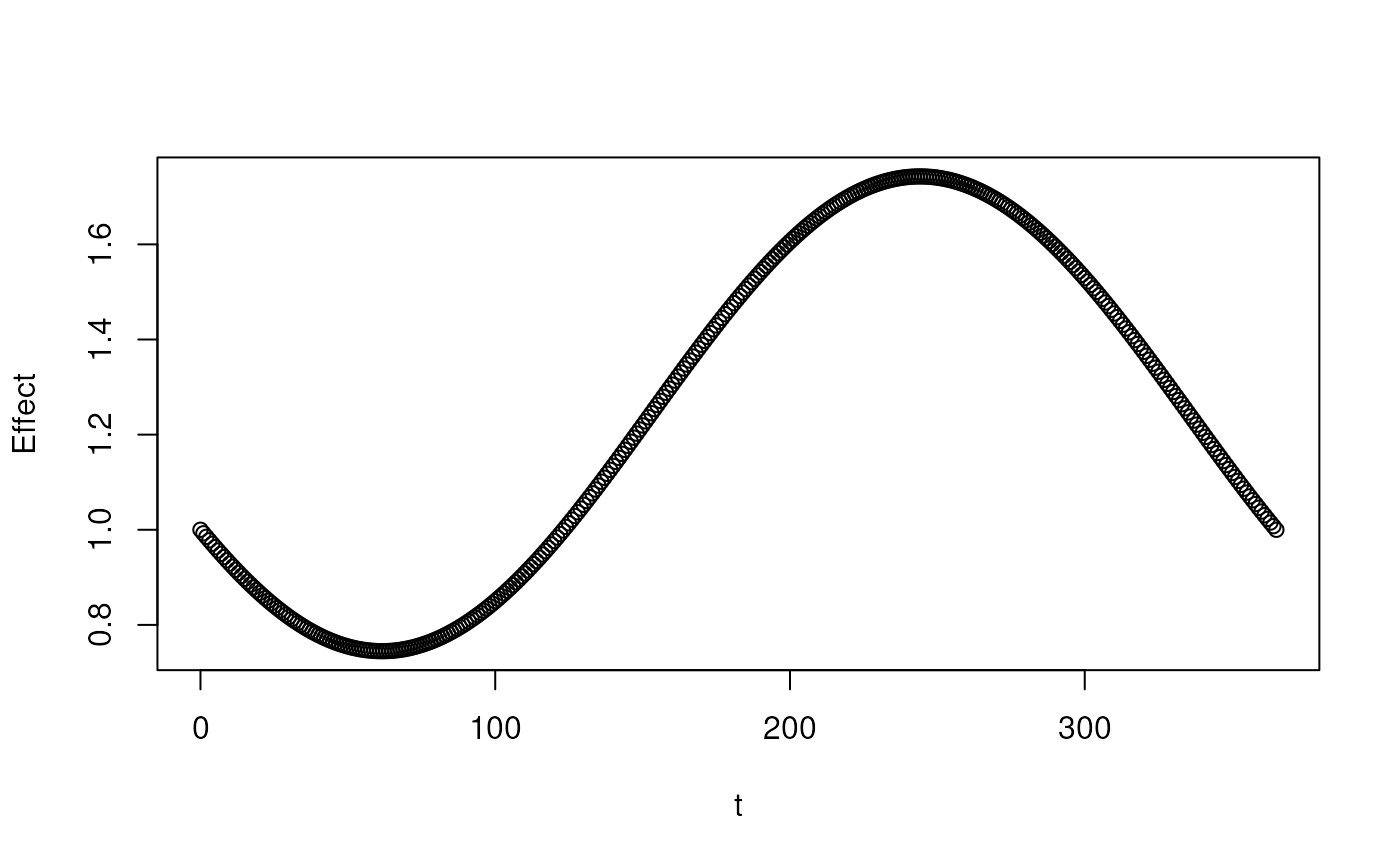
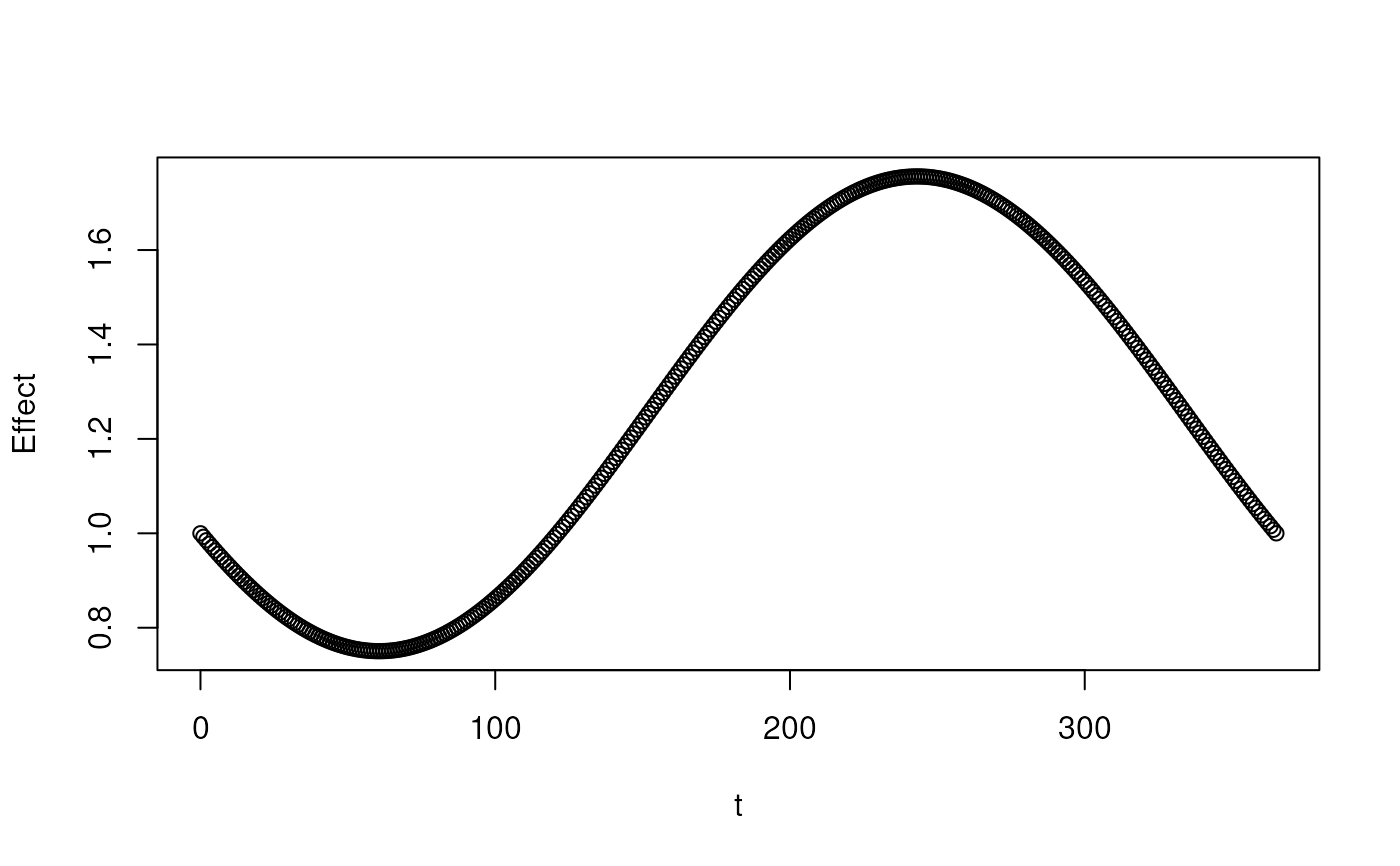
Deploying to gh-pages from @ ssi-dk/diseasy@d07aaa9217be7db4b6ef8a703eb769cba4e362d7 🚀

diff --git a/articles/SEIR-initialisation.html b/articles/SEIR-initialisation.html
@@ -382,16 +382,16 @@ a reduced probability of testing during weekends.</li>
 <span><span class="co">#&gt; <span style="color: #949494;"># A tibble: 1,500 × 6</span></span></span>
 <span><span class="co">#&gt;    date       age_group variant n_infected n_positive_simple n_positive</span></span>
 <span><span class="co">#&gt;    <span style="color: #949494; font-style: italic;">&lt;date&gt;</span>     <span style="color: #949494; font-style: italic;">&lt;chr&gt;</span>     <span style="color: #949494; font-style: italic;">&lt;chr&gt;</span>        <span style="color: #949494; font-style: italic;">&lt;dbl&gt;</span>             <span style="color: #949494; font-style: italic;">&lt;dbl&gt;</span>      <span style="color: #949494; font-style: italic;">&lt;dbl&gt;</span></span></span>
-<span><span class="co">#&gt; <span style="color: #BCBCBC;"> 1</span> 2020-01-03 30-59     WT            64.2                37         41</span></span>
-<span><span class="co">#&gt; <span style="color: #BCBCBC;"> 2</span> 2020-01-04 30-59     WT           136.                 85         64</span></span>
-<span><span class="co">#&gt; <span style="color: #BCBCBC;"> 3</span> 2020-01-05 30-59     WT           179.                107         79</span></span>
-<span><span class="co">#&gt; <span style="color: #BCBCBC;"> 4</span> 2020-01-06 30-59     WT           203.                136        138</span></span>
-<span><span class="co">#&gt; <span style="color: #BCBCBC;"> 5</span> 2020-01-07 30-59     WT           221.                137        144</span></span>
-<span><span class="co">#&gt; <span style="color: #BCBCBC;"> 6</span> 2020-01-08 30-59     WT           239.                159        169</span></span>
-<span><span class="co">#&gt; <span style="color: #BCBCBC;"> 7</span> 2020-01-09 30-59     WT           257.                170        181</span></span>
-<span><span class="co">#&gt; <span style="color: #BCBCBC;"> 8</span> 2020-01-10 30-59     WT           278.                188        196</span></span>
-<span><span class="co">#&gt; <span style="color: #BCBCBC;"> 9</span> 2020-01-11 30-59     WT           301.                203        159</span></span>
-<span><span class="co">#&gt; <span style="color: #BCBCBC;">10</span> 2020-01-12 30-59     WT           325.                198        142</span></span>
+<span><span class="co">#&gt; <span style="color: #BCBCBC;"> 1</span> 2020-01-03 60+       WT            17.2                 7          7</span></span>
+<span><span class="co">#&gt; <span style="color: #BCBCBC;"> 2</span> 2020-01-04 60+       WT            36.8                26         23</span></span>
+<span><span class="co">#&gt; <span style="color: #BCBCBC;"> 3</span> 2020-01-05 60+       WT            49.1                26         19</span></span>
+<span><span class="co">#&gt; <span style="color: #BCBCBC;"> 4</span> 2020-01-06 60+       WT            57.4                34         39</span></span>
+<span><span class="co">#&gt; <span style="color: #BCBCBC;"> 5</span> 2020-01-07 60+       WT            64.4                47         47</span></span>
+<span><span class="co">#&gt; <span style="color: #BCBCBC;"> 6</span> 2020-01-08 60+       WT            71.6                44         47</span></span>
+<span><span class="co">#&gt; <span style="color: #BCBCBC;"> 7</span> 2020-01-09 60+       WT            79.2                55         59</span></span>
+<span><span class="co">#&gt; <span style="color: #BCBCBC;"> 8</span> 2020-01-10 60+       WT            87.3                61         64</span></span>
+<span><span class="co">#&gt; <span style="color: #BCBCBC;"> 9</span> 2020-01-11 60+       WT            96.0                59         47</span></span>
+<span><span class="co">#&gt; <span style="color: #BCBCBC;">10</span> 2020-01-12 60+       WT           105.                 83         67</span></span>
 <span><span class="co">#&gt; <span style="color: #949494;"># ℹ 1,490 more rows</span></span></span></code></pre></div>
 <div class="sourceCode" id="cb5"><pre class="downlit sourceCode r">
 <code class="sourceCode R"><span><span class="co"># Visualise the example data</span></span>

diff --git a/articles/creating-ensembles.html b/articles/creating-ensembles.html
@@ -188,7 +188,7 @@ instances which we give the class <code>DiseasyEnsemble</code>.</p>
 functions to get a quick overview of the ensemble.</p>
 <div class="sourceCode" id="cb3"><pre class="downlit sourceCode r">
 <code class="sourceCode R"><span><span class="fu"><a href="../reference/print.html">print</a></span><span class="op">(</span><span class="va">ensemble</span><span class="op">)</span></span>
-<span><span class="co">#&gt; DiseasyEnsemble: DiseasyModelG1 (hash: 123cb), DiseasyModelG1 (hash: 4a368), DiseasyModelG1 (hash: 961b9)</span></span></code></pre></div>
+<span><span class="co">#&gt; DiseasyEnsemble: DiseasyModelG1 (hash: ca12c), DiseasyModelG1 (hash: 594fd), DiseasyModelG1 (hash: 89152)</span></span></code></pre></div>
 <div class="sourceCode" id="cb4"><pre class="downlit sourceCode r">
 <code class="sourceCode R"><span><span class="fu"><a href="https://rdrr.io/r/base/summary.html" class="external-link">summary</a></span><span class="op">(</span><span class="va">ensemble</span><span class="op">)</span></span>
 <span><span class="co">#&gt; DiseasyEnsemble consisting of:</span></span>
@@ -207,12 +207,12 @@ least specify the following:</p>
 <span><span class="co">#&gt; <span style="color: #949494;"># A tibble: 6 × 5</span></span></span>
 <span><span class="co">#&gt;   date       n_positive realisation_id weight model                           </span></span>
 <span><span class="co">#&gt;   <span style="color: #949494; font-style: italic;">&lt;date&gt;</span>          <span style="color: #949494; font-style: italic;">&lt;dbl&gt;</span> <span style="color: #949494; font-style: italic;">&lt;chr&gt;</span>           <span style="color: #949494; font-style: italic;">&lt;dbl&gt;</span> <span style="color: #949494; font-style: italic;">&lt;chr&gt;</span>                           </span></span>
-<span><span class="co">#&gt; <span style="color: #BCBCBC;">1</span> 2021-03-28      <span style="text-decoration: underline;">2</span>132. 1                   1 123cbb34d81d64723307a36842ca2dba</span></span>
-<span><span class="co">#&gt; <span style="color: #BCBCBC;">2</span> 2021-03-29      <span style="text-decoration: underline;">1</span>719. 1                   1 123cbb34d81d64723307a36842ca2dba</span></span>
-<span><span class="co">#&gt; <span style="color: #BCBCBC;">3</span> 2021-03-30      <span style="text-decoration: underline;">2</span>432. 1                   1 123cbb34d81d64723307a36842ca2dba</span></span>
-<span><span class="co">#&gt; <span style="color: #BCBCBC;">4</span> 2021-03-31      <span style="text-decoration: underline;">2</span>555. 1                   1 123cbb34d81d64723307a36842ca2dba</span></span>
-<span><span class="co">#&gt; <span style="color: #BCBCBC;">5</span> 2021-04-01      <span style="text-decoration: underline;">2</span>163. 1                   1 123cbb34d81d64723307a36842ca2dba</span></span>
-<span><span class="co">#&gt; <span style="color: #BCBCBC;">6</span> 2021-04-02      <span style="text-decoration: underline;">1</span>253. 1                   1 123cbb34d81d64723307a36842ca2dba</span></span></code></pre></div>
+<span><span class="co">#&gt; <span style="color: #BCBCBC;">1</span> 2021-03-28      <span style="text-decoration: underline;">2</span>132. 1                   1 ca12ca79d7ec9eec7b39838bcc8b2b45</span></span>
+<span><span class="co">#&gt; <span style="color: #BCBCBC;">2</span> 2021-03-29      <span style="text-decoration: underline;">1</span>719. 1                   1 ca12ca79d7ec9eec7b39838bcc8b2b45</span></span>
+<span><span class="co">#&gt; <span style="color: #BCBCBC;">3</span> 2021-03-30      <span style="text-decoration: underline;">2</span>432. 1                   1 ca12ca79d7ec9eec7b39838bcc8b2b45</span></span>
+<span><span class="co">#&gt; <span style="color: #BCBCBC;">4</span> 2021-03-31      <span style="text-decoration: underline;">2</span>555. 1                   1 ca12ca79d7ec9eec7b39838bcc8b2b45</span></span>
+<span><span class="co">#&gt; <span style="color: #BCBCBC;">5</span> 2021-04-01      <span style="text-decoration: underline;">2</span>163. 1                   1 ca12ca79d7ec9eec7b39838bcc8b2b45</span></span>
+<span><span class="co">#&gt; <span style="color: #BCBCBC;">6</span> 2021-04-02      <span style="text-decoration: underline;">1</span>253. 1                   1 ca12ca79d7ec9eec7b39838bcc8b2b45</span></span></code></pre></div>
 <div class="sourceCode" id="cb6"><pre class="downlit sourceCode r">
 <code class="sourceCode R"><span><span class="fu"><a href="../reference/plot.html">plot</a></span><span class="op">(</span><span class="va">ensemble</span>, observable <span class="op">=</span> <span class="st">"n_positive"</span>, prediction_length <span class="op">=</span> <span class="fl">30</span><span class="op">)</span></span></code></pre></div>
 <p><img src="creating-ensembles_files/figure-html/unnamed-chunk-7-1.png" class="r-plt" alt="Plot of the ensemble predictions. Shaded area is ensemble quantiles with observations as points." width="700"></p>
@@ -291,7 +291,7 @@ parameter settings from before.</p>
 models:</p>
 <div class="sourceCode" id="cb11"><pre class="downlit sourceCode r">
 <code class="sourceCode R"><span><span class="fu"><a href="../reference/print.html">print</a></span><span class="op">(</span><span class="va">ensemble</span><span class="op">)</span></span>
-<span><span class="co">#&gt; DiseasyEnsemble: DiseasyModelG0 (hash: a98c1), DiseasyModelG0 (hash: 10ea0), DiseasyModelG0 (hash: f749e), DiseasyModelG1 (hash: 123cb), DiseasyModelG1 (hash: 4a368)</span></span></code></pre></div>
+<span><span class="co">#&gt; DiseasyEnsemble: DiseasyModelG0 (hash: 37690), DiseasyModelG0 (hash: 899b9), DiseasyModelG0 (hash: 702fe), DiseasyModelG1 (hash: ca12c), DiseasyModelG1 (hash: 594fd)</span></span></code></pre></div>
 <div class="sourceCode" id="cb12"><pre class="downlit sourceCode r">
 <code class="sourceCode R"><span><span class="fu"><a href="https://rdrr.io/r/base/summary.html" class="external-link">summary</a></span><span class="op">(</span><span class="va">ensemble</span><span class="op">)</span></span>
 <span><span class="co">#&gt; DiseasyEnsemble consisting of:</span></span>

diff --git a/articles/diseasy-immunity.html b/articles/diseasy-immunity.html
@@ -129,7 +129,7 @@ the following code.</p>
 <span><span class="co">#&gt; $infection</span></span>
 <span><span class="co">#&gt; function (t) </span></span>
 <span><span class="co">#&gt; 1</span></span>
-<span><span class="co">#&gt; &lt;environment: 0x562da50355a0&gt;</span></span>
+<span><span class="co">#&gt; &lt;environment: 0x564711f2ac28&gt;</span></span>
 <span><span class="co">#&gt; attr(,"name")</span></span>
 <span><span class="co">#&gt; [1] "no_waning"</span></span></code></pre></div>
 <p>This returns a <code>named list()</code> where the named target are
@@ -165,7 +165,7 @@ parameter.</li>
 <span><span class="co">#&gt; $infection</span></span>
 <span><span class="co">#&gt; function (t) </span></span>
 <span><span class="co">#&gt; exp(-(t - time_scale)/shape)/(1 + exp(-(t - time_scale)/shape))</span></span>
-<span><span class="co">#&gt; &lt;environment: 0x562da6748240&gt;</span></span>
+<span><span class="co">#&gt; &lt;environment: 0x56471363da98&gt;</span></span>
 <span><span class="co">#&gt; attr(,"name")</span></span>
 <span><span class="co">#&gt; [1] "sigmoidal_waning"</span></span>
 <span><span class="co">#&gt; attr(,"dots")</span></span>
@@ -210,7 +210,7 @@ identification. Default is “custom_waning”.</li>
 <span><span class="co">#&gt; $hospitalisation</span></span>
 <span><span class="co">#&gt; function (t) </span></span>
 <span><span class="co">#&gt; 0.8 * exp(-(t/time_scale)^2) + 0.2</span></span>
-<span><span class="co">#&gt; &lt;environment: 0x562da750b6a0&gt;</span></span>
+<span><span class="co">#&gt; &lt;environment: 0x5647143ff5d8&gt;</span></span>
 <span><span class="co">#&gt; attr(,"name")</span></span>
 <span><span class="co">#&gt; [1] "gaussian_waning"</span></span>
 <span><span class="co">#&gt; attr(,"dots")</span></span>
@@ -248,8 +248,8 @@ additional arguments.</p>
 <span><span class="co">#&gt; $infection</span></span>
 <span><span class="co">#&gt; function (t) </span></span>
 <span><span class="co">#&gt; exp(-(t - time_scale)/shape)/(1 + exp(-(t - time_scale)/shape))</span></span>
-<span><span class="co">#&gt; &lt;bytecode: 0x562da890a5f0&gt;</span></span>
-<span><span class="co">#&gt; &lt;environment: 0x562da840f7c0&gt;</span></span>
+<span><span class="co">#&gt; &lt;bytecode: 0x5647157fdfd8&gt;</span></span>
+<span><span class="co">#&gt; &lt;environment: 0x5647153032a8&gt;</span></span>
 <span><span class="co">#&gt; attr(,"name")</span></span>
 <span><span class="co">#&gt; [1] "sigmoidal_waning"</span></span>
 <span><span class="co">#&gt; attr(,"dots")</span></span>
@@ -267,7 +267,7 @@ additional arguments.</p>
 <span><span class="co">#&gt; $hospitalisation</span></span>
 <span><span class="co">#&gt; function (t) </span></span>
 <span><span class="co">#&gt; 0.8 * exp(-(t/time_scale)^2) + 0.2</span></span>
-<span><span class="co">#&gt; &lt;environment: 0x562da90aac98&gt;</span></span>
+<span><span class="co">#&gt; &lt;environment: 0x564715f9e680&gt;</span></span>
 <span><span class="co">#&gt; attr(,"name")</span></span>
 <span><span class="co">#&gt; [1] "gaussian_waning"</span></span>
 <span><span class="co">#&gt; attr(,"dots")</span></span>
@@ -291,7 +291,7 @@ targets in the current models.</p>
 <span><span class="co">#&gt; $infection</span></span>
 <span><span class="co">#&gt; function (t) </span></span>
 <span><span class="co">#&gt; exp(-(t - time_scale)/shape)/(1 + exp(-(t - time_scale)/shape))</span></span>
-<span><span class="co">#&gt; &lt;environment: 0x562da840f7c0&gt;</span></span>
+<span><span class="co">#&gt; &lt;environment: 0x5647153032a8&gt;</span></span>
 <span><span class="co">#&gt; attr(,"name")</span></span>
 <span><span class="co">#&gt; [1] "sigmoidal_waning"</span></span>
 <span><span class="co">#&gt; attr(,"dots")</span></span>
@@ -302,7 +302,7 @@ targets in the current models.</p>
 <span><span class="co">#&gt; $hospitalisation</span></span>
 <span><span class="co">#&gt; function (t) </span></span>
 <span><span class="co">#&gt; 0.8 * exp(-(t/time_scale)^2) + 0.2</span></span>
-<span><span class="co">#&gt; &lt;environment: 0x562da90aac98&gt;</span></span>
+<span><span class="co">#&gt; &lt;environment: 0x564715f9e680&gt;</span></span>
 <span><span class="co">#&gt; attr(,"name")</span></span>
 <span><span class="co">#&gt; [1] "gaussian_waning"</span></span>
 <span><span class="co">#&gt; attr(,"dots")</span></span>

diff --git a/articles/SEIR-implementation.html b/articles/SEIR-implementation.html
@@ -857,11 +857,11 @@ demographic groups and one variant.</p>
 <span>  check <span class="op">=</span> <span class="st">"equal"</span>, times <span class="op">=</span> <span class="fl">1000L</span></span>
 <span><span class="op">)</span></span>
 <span><span class="co">#&gt; Unit: microseconds</span></span>
-<span><span class="co">#&gt;                expr    min     lq      mean median     uq      max neval</span></span>
-<span><span class="co">#&gt;      purrr::map_dbl 21.632 22.524 23.759254 22.954 23.675  151.825  1000</span></span>
-<span><span class="co">#&gt;              sapply 11.577 12.178 15.174001 12.448 12.779 2446.231  1000</span></span>
-<span><span class="co">#&gt;  sapply - USE.NAMES 11.637 12.168 12.748112 12.448 12.819   45.027  1000</span></span>
-<span><span class="co">#&gt;              vapply  4.567  4.848  5.130033  5.008  5.188   19.319  1000</span></span></code></pre></div>
+<span><span class="co">#&gt;                expr    min      lq      mean median      uq      max neval</span></span>
+<span><span class="co">#&gt;      purrr::map_dbl 21.732 22.7890 24.026672 23.274 23.9860  140.338  1000</span></span>
+<span><span class="co">#&gt;              sapply 11.507 12.1280 15.183044 12.419 12.7990 2442.797  1000</span></span>
+<span><span class="co">#&gt;  sapply - USE.NAMES 11.467 12.1285 12.798657 12.429 12.8495   45.648  1000</span></span>
+<span><span class="co">#&gt;              vapply  4.527  4.8175  5.141032  4.967  5.1980   41.542  1000</span></span></code></pre></div>
 <p>Note, that the best performing function in this case is
 <code><a href="https://rdrr.io/r/base/lapply.html" class="external-link">vapply()</a></code>.</p>
 </div>

diff --git a/reference/DiseasyImmunity.html b/reference/DiseasyImmunity.html
@@ -524,7 +524,7 @@ Number of compartments to be used in the model.</p></dd>
 <span class="r-out co"><span class="r-pr">#&gt;</span> $infection</span>
 <span class="r-out co"><span class="r-pr">#&gt;</span> function (t) </span>
 <span class="r-out co"><span class="r-pr">#&gt;</span> exp(-t/time_scale)</span>
-<span class="r-out co"><span class="r-pr">#&gt;</span> &lt;environment: 0x5592ecd2ec00&gt;</span>
+<span class="r-out co"><span class="r-pr">#&gt;</span> &lt;environment: 0x564f9cf5be48&gt;</span>
 <span class="r-out co"><span class="r-pr">#&gt;</span> attr(,"name")</span>
 <span class="r-out co"><span class="r-pr">#&gt;</span> [1] "exponential_waning"</span>
 <span class="r-out co"><span class="r-pr">#&gt;</span> attr(,"dots")</span>
@@ -536,7 +536,7 @@ Number of compartments to be used in the model.</p></dd>
 <span class="r-out co"><span class="r-pr">#&gt;</span> $infection</span>
 <span class="r-out co"><span class="r-pr">#&gt;</span> function (t) </span>
 <span class="r-out co"><span class="r-pr">#&gt;</span> exp(-t/time_scale)</span>
-<span class="r-out co"><span class="r-pr">#&gt;</span> &lt;environment: 0x5592ecd2ec00&gt;</span>
+<span class="r-out co"><span class="r-pr">#&gt;</span> &lt;environment: 0x564f9cf5be48&gt;</span>
 <span class="r-out co"><span class="r-pr">#&gt;</span> attr(,"name")</span>
 <span class="r-out co"><span class="r-pr">#&gt;</span> [1] "exponential_waning"</span>
 <span class="r-out co"><span class="r-pr">#&gt;</span> attr(,"dots")</span>

diff --git a/articles/diseasy-model-ode.html b/articles/diseasy-model-ode.html
@@ -287,7 +287,7 @@ immunity:</p>
 <span><span class="co">#&gt; $infection</span></span>
 <span><span class="co">#&gt; function (t) </span></span>
 <span><span class="co">#&gt; exp(-t/time_scale)</span></span>
-<span><span class="co">#&gt; &lt;environment: 0x5573b4faa4f0&gt;</span></span>
+<span><span class="co">#&gt; &lt;environment: 0x55e6704105c8&gt;</span></span>
 <span><span class="co">#&gt; attr(,"name")</span></span>
 <span><span class="co">#&gt; [1] "exponential_waning"</span></span>
 <span><span class="co">#&gt; attr(,"dots")</span></span>

diff --git a/reference/DiseasyEnsemble-generics.html b/reference/DiseasyEnsemble-generics.html
@@ -170,7 +170,7 @@ date, stratification and model (optional).</p>
 <span class="r-in"><span>  <span class="op">)</span></span></span>
 <span class="r-in"><span></span></span>
 <span class="r-in"><span>  <span class="fu"><a href="print.html">print</a></span><span class="op">(</span><span class="va">ensemble</span><span class="op">)</span></span></span>
-<span class="r-out co"><span class="r-pr">#&gt;</span> DiseasyEnsemble: DiseasyModelG0 (hash: 90f4d), DiseasyModelG1 (hash: 51e56) </span>
+<span class="r-out co"><span class="r-pr">#&gt;</span> DiseasyEnsemble: DiseasyModelG0 (hash: c3b20), DiseasyModelG1 (hash: 89bd1) </span>
 <span class="r-in"><span></span></span>
 <span class="r-in"><span>  <span class="fu"><a href="https://rdrr.io/r/base/summary.html" class="external-link">summary</a></span><span class="op">(</span><span class="va">ensemble</span><span class="op">)</span></span></span>
 <span class="r-out co"><span class="r-pr">#&gt;</span> DiseasyEnsemble consisting of:</span>

diff --git a/reference/combineasy.html b/reference/combineasy.html
@@ -114,7 +114,7 @@ The combination of parameters to set in the model instances (generated by <code>
 <span class="r-in"><span>  <span class="op">)</span></span></span>
 <span class="r-in"><span></span></span>
 <span class="r-in"><span>  <span class="fu"><a href="print.html">print</a></span><span class="op">(</span><span class="va">ensemble</span><span class="op">)</span></span></span>
-<span class="r-out co"><span class="r-pr">#&gt;</span> DiseasyEnsemble: DiseasyModelG1 (hash: aa1c2) </span>
+<span class="r-out co"><span class="r-pr">#&gt;</span> DiseasyEnsemble: DiseasyModelG1 (hash: edd80) </span>
 <span class="r-in"><span></span></span>
 <span class="r-in"><span>  <span class="fu"><a href="https://rdrr.io/r/base/summary.html" class="external-link">summary</a></span><span class="op">(</span><span class="va">ensemble</span><span class="op">)</span></span></span>
 <span class="r-out co"><span class="r-pr">#&gt;</span> DiseasyEnsemble consisting of:</span>

diff --git a/reference/plot.html b/reference/plot.html
@@ -100,7 +100,7 @@ See the <code>$plot()</code> method for each module</p></dd>
 <span class="r-out co"><span class="r-pr">#&gt;</span> $hospitalisation</span>
 <span class="r-out co"><span class="r-pr">#&gt;</span> function (t) </span>
 <span class="r-out co"><span class="r-pr">#&gt;</span> exp(-t/time_scale)</span>
-<span class="r-out co"><span class="r-pr">#&gt;</span> &lt;environment: 0x5592f4a62de8&gt;</span>
+<span class="r-out co"><span class="r-pr">#&gt;</span> &lt;environment: 0x564fa645d360&gt;</span>
 <span class="r-out co"><span class="r-pr">#&gt;</span> attr(,"name")</span>
 <span class="r-out co"><span class="r-pr">#&gt;</span> [1] "exponential_waning"</span>
 <span class="r-out co"><span class="r-pr">#&gt;</span> attr(,"dots")</span>